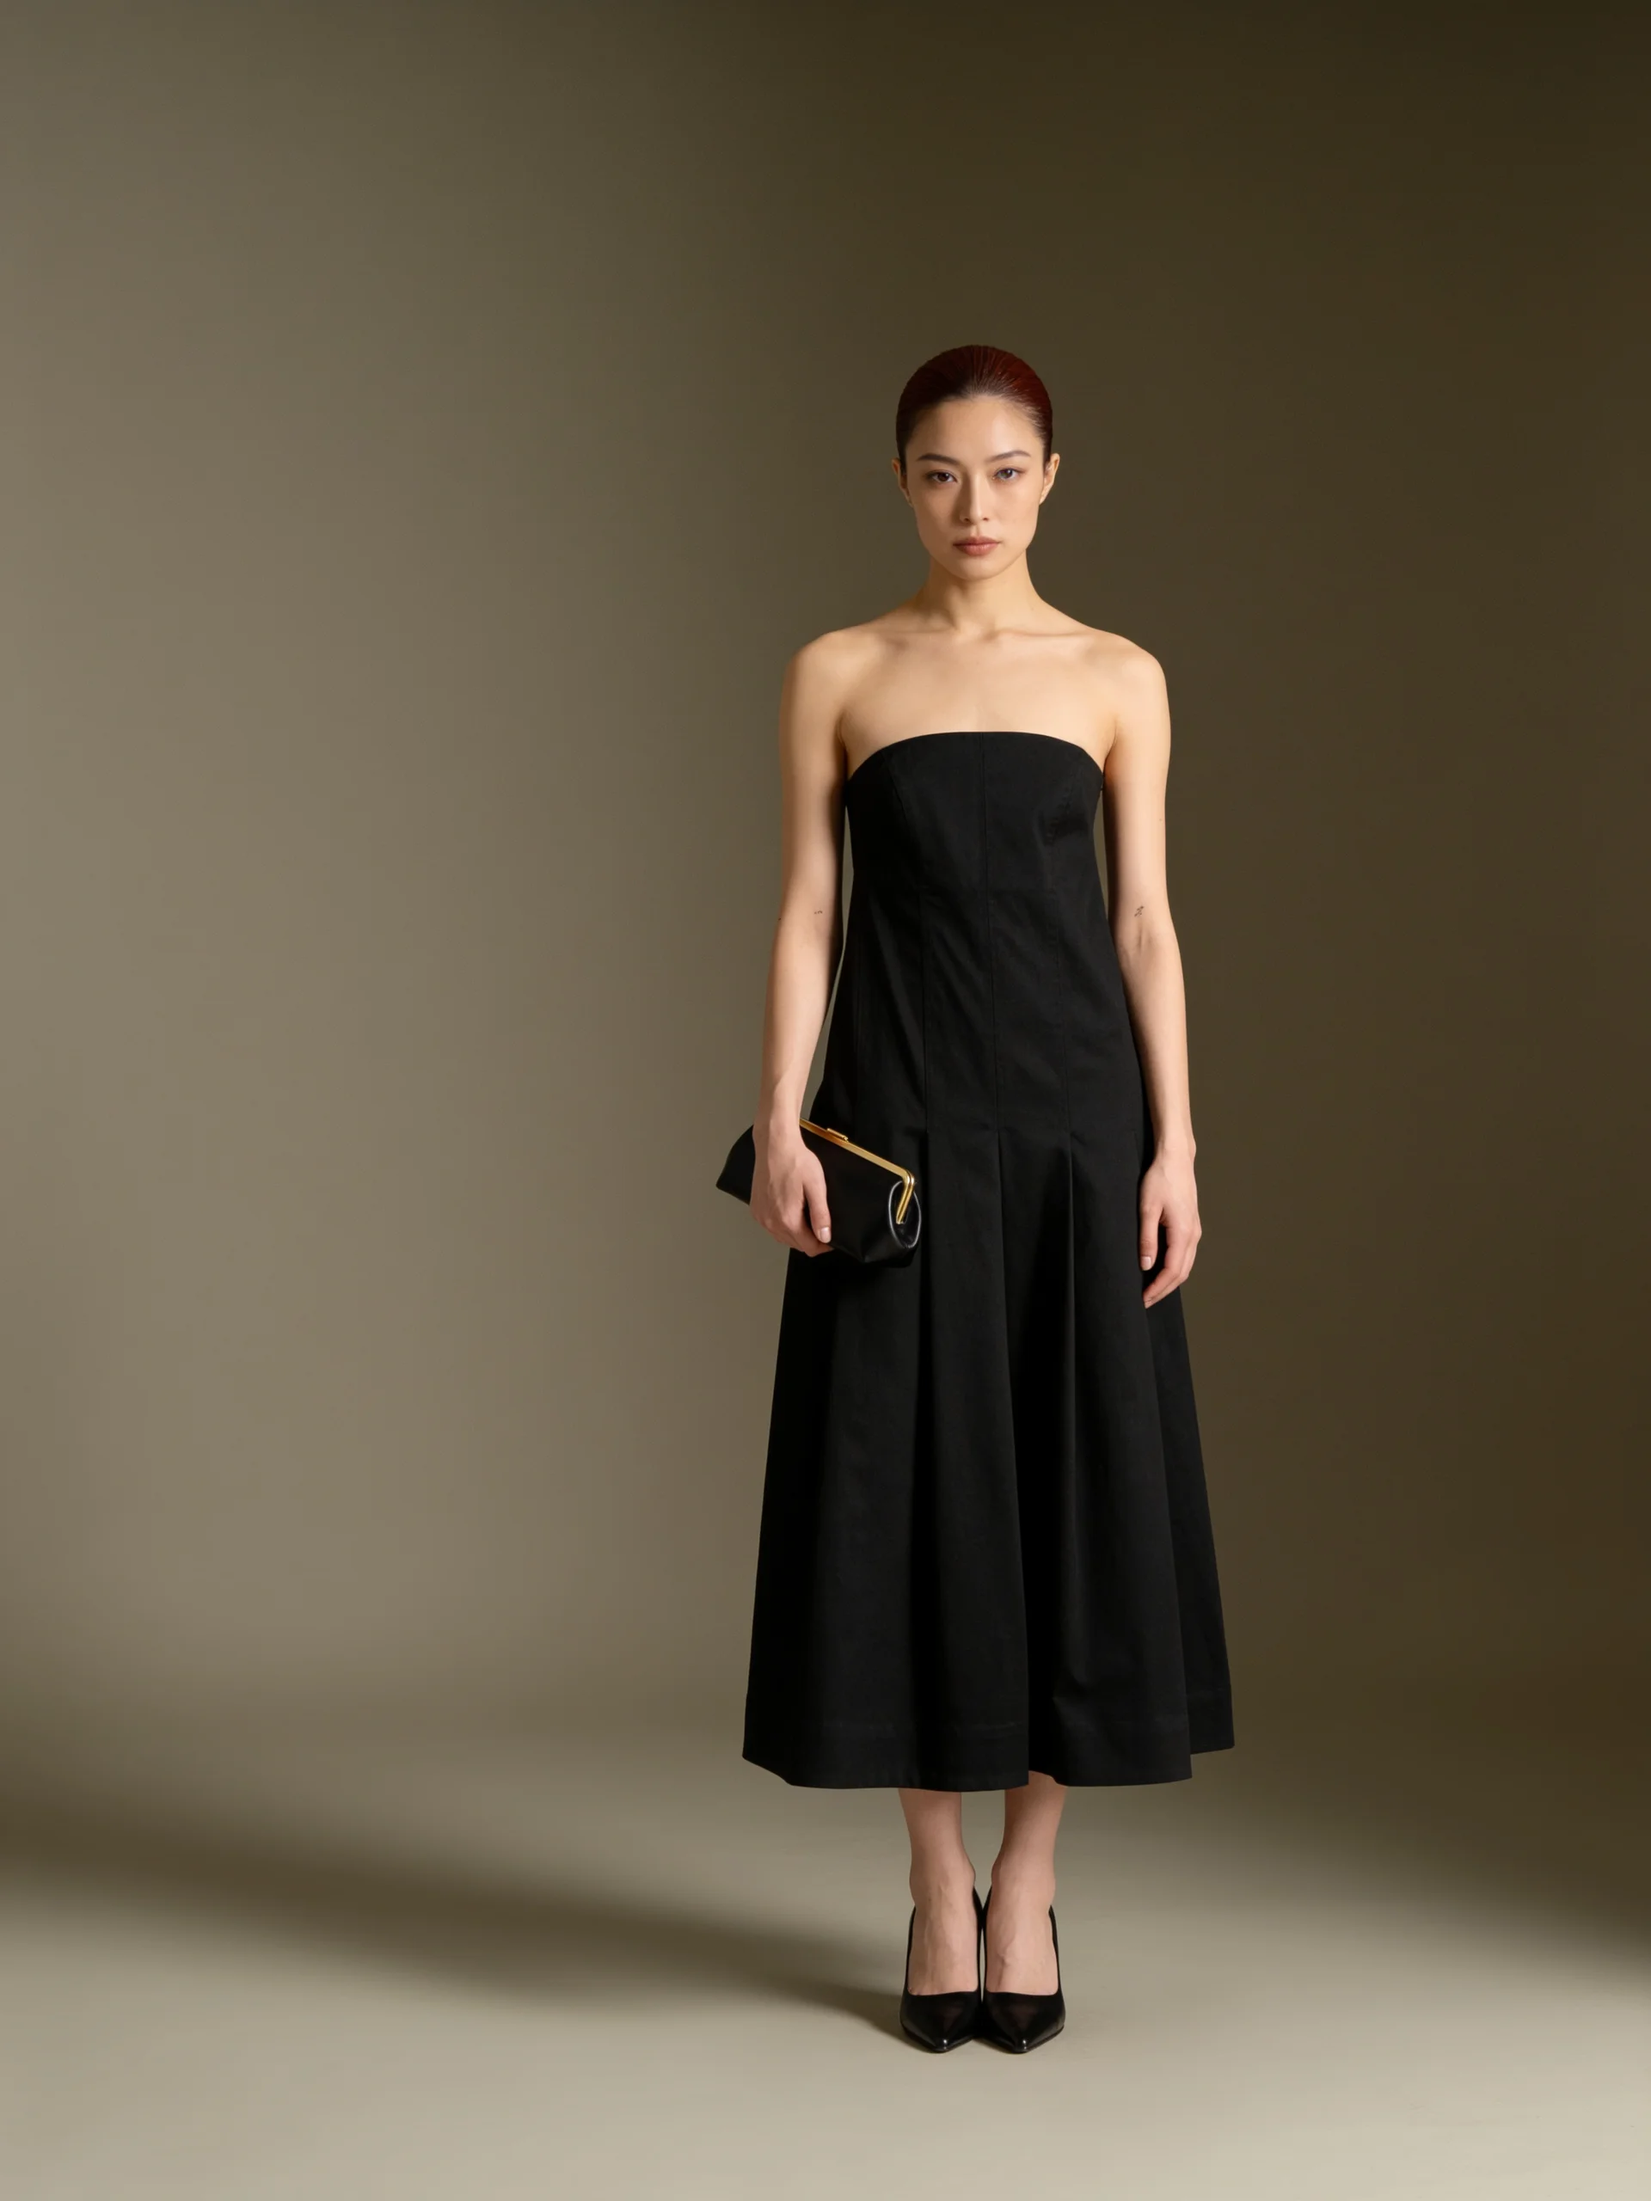
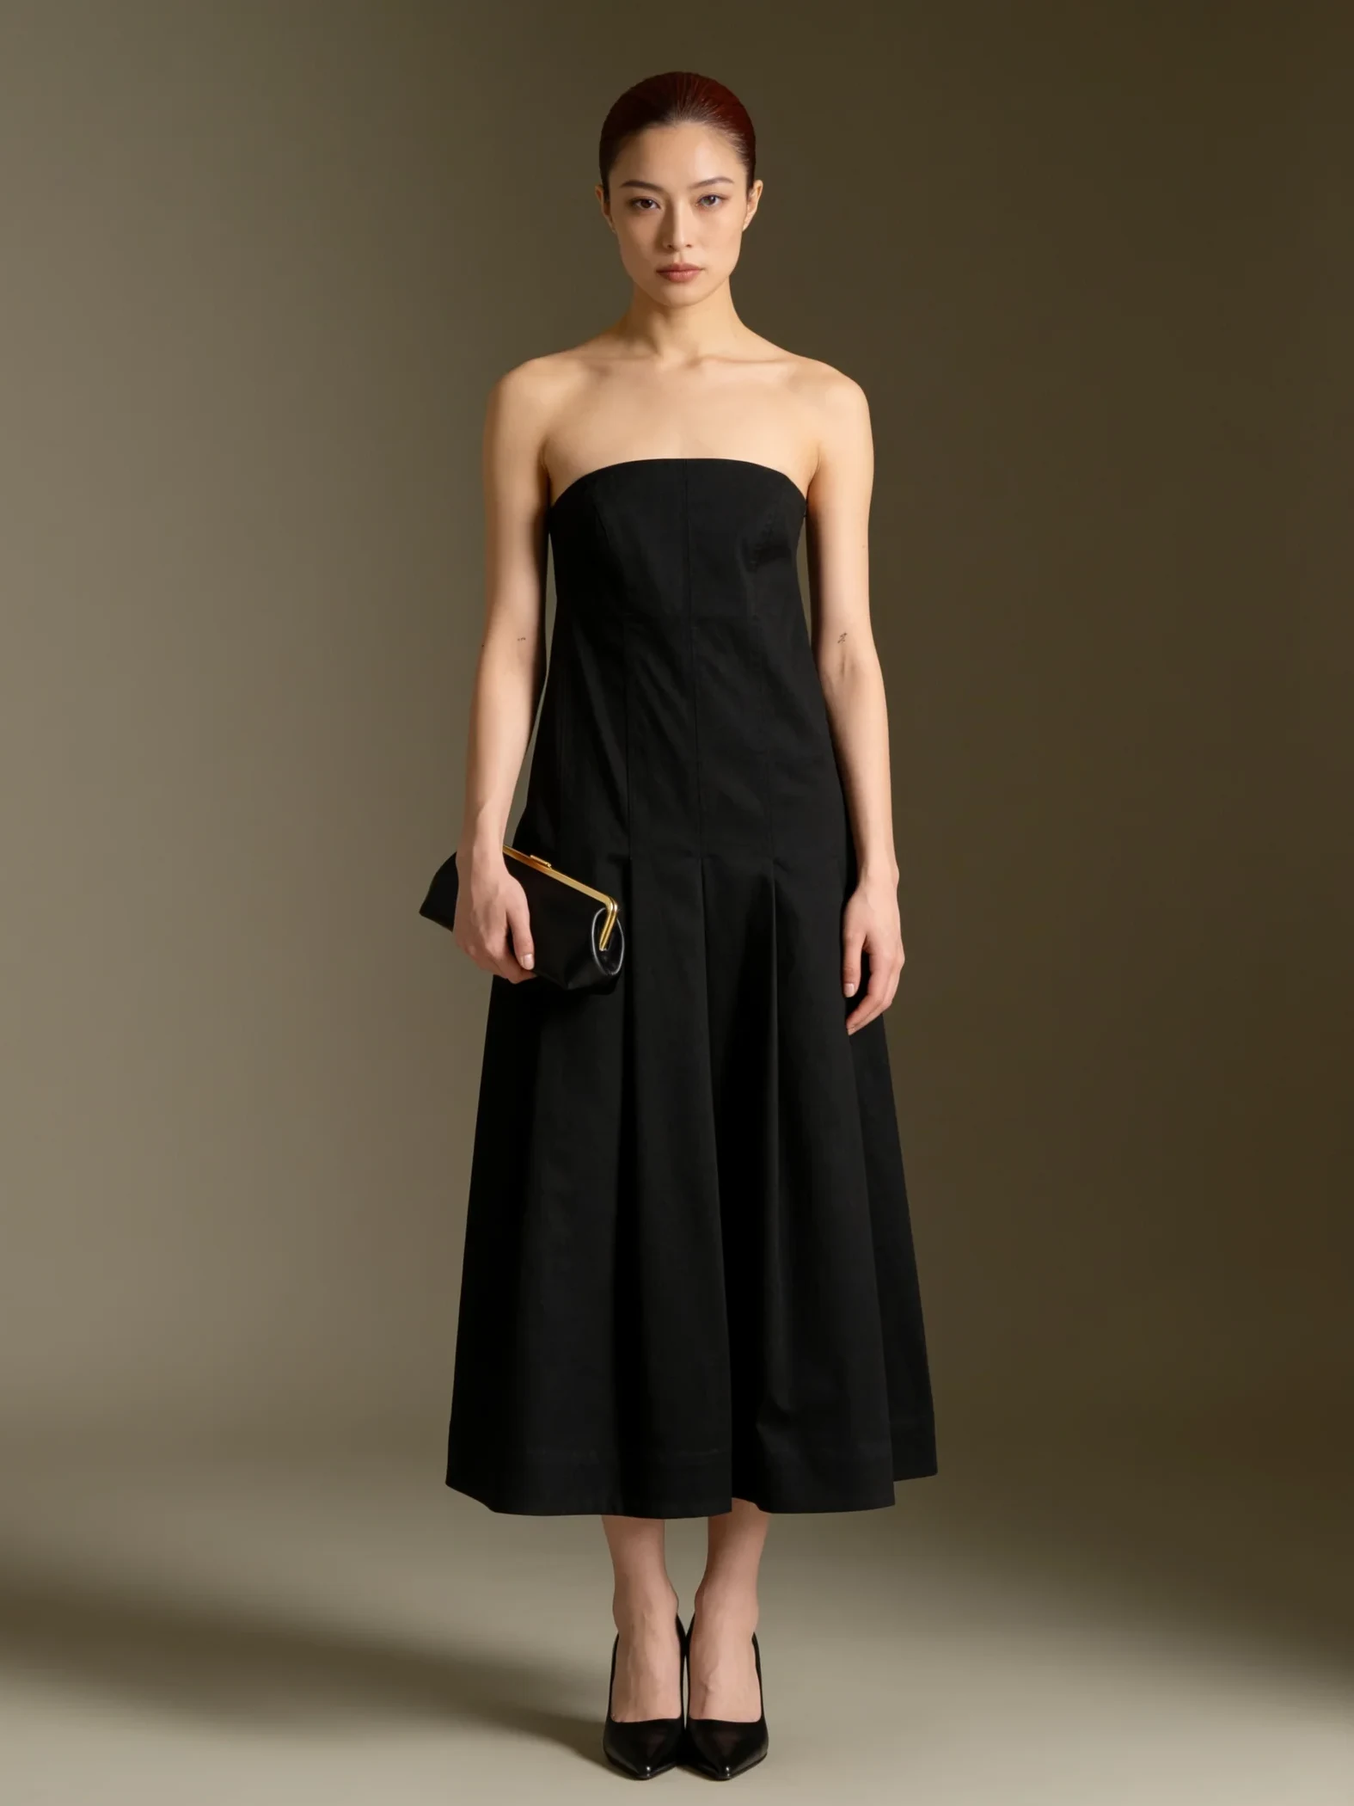
Landing occasions: black tie strapless look cropped to match the other two

Changed region(s): [[0.0, 0.031, 1.0, 0.9905]]

diff --git a/src/components/OccasionsSection.tsx b/src/components/OccasionsSection.tsx
@@ -23,7 +23,7 @@ const OCCASIONS: Occasion[] = [
     label: 'BLACK TIE',
     looks: [
       { src: '/occasions/black-tie-lace.webp', name: 'LACE, ANKLE LENGTH', dots: [[41, 30], [55, 58]] },
-      { src: '/occasions/black-tie-strapless.webp', name: 'STRAPLESS & SHARP', dots: [[48, 51], [62, 68]] },
+      { src: '/occasions/black-tie-strapless.webp', name: 'STRAPLESS & SHARP', dots: [[39, 51], [54, 68]] },
       { src: '/occasions/black-tie-column.webp', name: 'THE WHITE COLUMN', dots: [[50, 34], [50, 66]] },
     ],
   },
